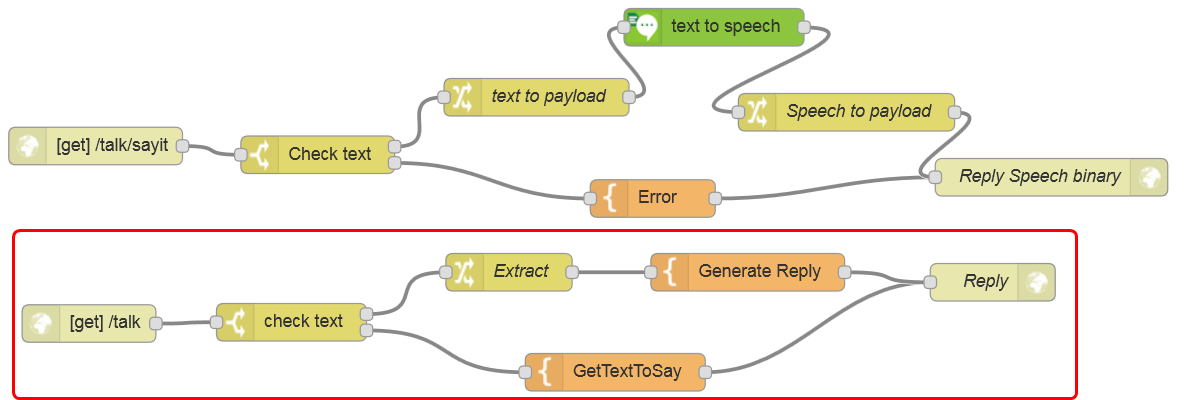
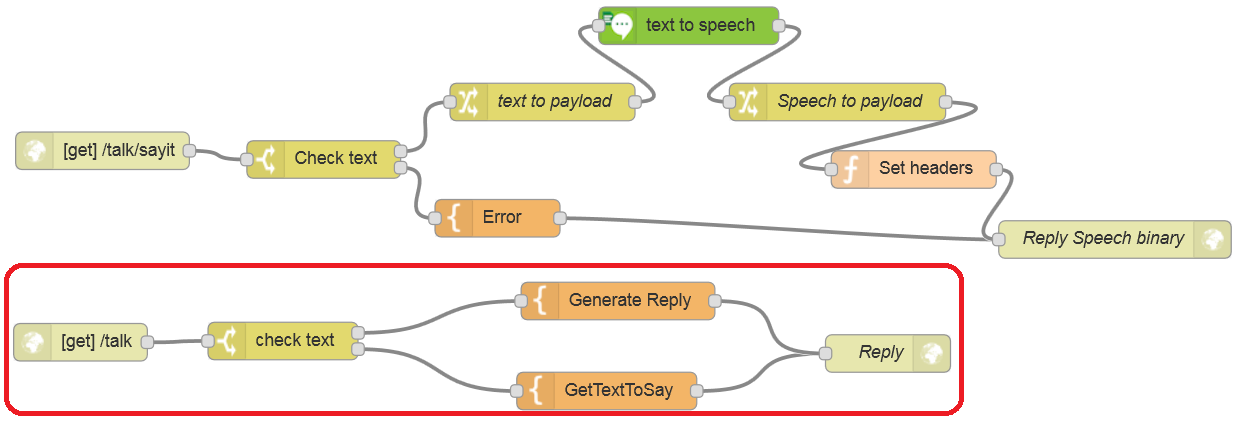
Removed superfluous change node
Also fixed the MIME file as attachment yielding .wav file with a name
derived from text

Changed region(s): [[0.0, 0.0, 1.0, 1.0]]

diff --git a/watson_services_labs/text_to_speech/lab_text_to_speech.md b/watson_services_labs/text_to_speech/lab_text_to_speech.md
@@ -83,11 +83,11 @@ When a text_to_say query parameter is set, we generate an HTML page with a \<aud
     <p><q>{{payload}}</q></p>
     <p>Hear it:</p>
     <audio controls autoplay>
-      <source src="{{req._parsedUrl.pathname}}/sayit?text_to_say={{payload}}" type="audio/wav">
+      <source src="{{req._parsedUrl.pathname}}/sayit?text_to_say={{payload.text_to_say}}" type="audio/wav">
         Your browser does not support the audio element.
     </audio>
     <form action="{{req._parsedUrl.pathname}}">
-        <input type="text" name="text_to_say" id="" value="{{payload}}" />
+        <input type="text" name="text_to_say" id="" value="{{payload.text_to_say}}" />
         <input type="submit" value="Try Again" />
     </form>
 ```
